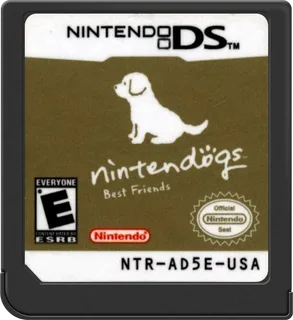
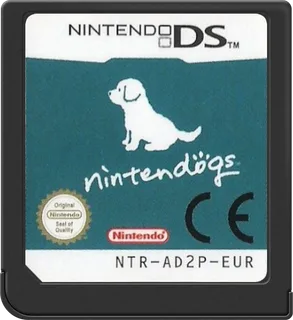
feat(system): best sellers for 10 more systems, european designs first
Lists and real cartridges or discs for Dreamcast, Saturn, Master System, Game Gear, Mega-CD,
Jaguar and PSP, and the Game Boy and Game Boy Color lists for Super Game Boy and the
two-player Game Boy systems. Every picture is now the European release where LaunchBox has
one; the Atari 2600 keeps the North American carts, since Europe's were often retitled copies
of them. FDS has no list: LaunchBox has no real disk pictures for its top games.

diff --git a/CREDITS.md b/CREDITS.md
@@ -5,43 +5,75 @@
 The pictures in `public/systems/<system>/bestsellers/` are photos and scans of the real
 cartridges and discs, from the [LaunchBox Games Database](https://gamesdb.launchbox-app.com/),
 contributed by its community. The games, their label art and their names belong to their
-publishers; they are shown here to identify each system's best sellers.
+publishers; they are shown here to identify each system's best sellers. The European release
+is used where the database has one (not for the Atari 2600, whose European releases were
+often retitled copies).
 
-| Picture                        | Game                      | Kind         | Region        | Source                                                                       |
-| ------------------------------ | ------------------------- | ------------ | ------------- | ---------------------------------------------------------------------------- |
-| `atari2600/bestsellers/1.webp` | Pac-Man                   | Cart - Front | North America | https://images.launchbox-app.com/e9454311-513f-4642-a35d-af3272b1f7ed.png    |
-| `atari2600/bestsellers/2.webp` | Pitfall!                  | Cart - Front | North America | https://images.launchbox-app.com/74fde1b3-28f1-4b3c-b26b-28bb89304945.jpg    |
-| `atari2600/bestsellers/3.webp` | Missile Command           | Cart - Front | North America | https://images.launchbox-app.com/302f3d9b-a39f-4529-a5f3-46ef04c66c09.jpg    |
-| `gamecube/bestsellers/1.webp`  | Super Smash Bros. Melee   | Disc         | North America | https://images.launchbox-app.com/273a9b53-79e4-4899-b254-03157ee749dc.png    |
-| `gamecube/bestsellers/2.webp`  | Mario Kart: Double Dash!! | Disc         | North America | https://images.launchbox-app.com/84f2b8fe-32bf-4dec-b4c2-08664f088271.png    |
-| `gamecube/bestsellers/3.webp`  | Super Mario Sunshine      | Disc         | North America | https://images.launchbox-app.com/0f71a42f-ab8a-425b-bff0-74b06e844a4f.png    |
-| `gb/bestsellers/1.webp`        | Tetris                    | Cart - Front | North America | https://images.launchbox-app.com/cfef6fae-834d-49ec-aa3e-9183db0586c5.png    |
-| `gb/bestsellers/2.webp`        | Pokémon Red               | Cart - Front | North America | https://images.launchbox-app.com/f27eb5ca-0747-40e7-a498-4a166c08557f.png    |
-| `gb/bestsellers/3.webp`        | Super Mario Land          | Cart - Front | North America | https://images.launchbox-app.com/c96dc4f1-80a7-402e-b667-503abc3d43ab.png    |
-| `gba/bestsellers/1.webp`       | Pokémon Ruby              | Cart - Front | North America | https://images.launchbox-app.com/r2_d220b83e-1533-4b8c-a1f2-7af88d67ac91.png |
-| `gba/bestsellers/2.webp`       | Pokémon FireRed           | Cart - Front | North America | https://images.launchbox-app.com/r2_31631d3e-4155-47cd-b137-398e7a8007d3.png |
-| `gba/bestsellers/3.webp`       | Pokémon Emerald           | Cart - Front | North America | https://images.launchbox-app.com/r2_ea8f352b-fa39-41b7-b27e-bbe6df1e86d1.png |
-| `gbc/bestsellers/1.webp`       | Pokémon Gold              | Cart - Front | North America | https://images.launchbox-app.com/a8c2f791-2b55-48e9-a3de-05ff0437a3e2.png    |
-| `gbc/bestsellers/2.webp`       | Pokémon Crystal           | Cart - Front | North America | https://images.launchbox-app.com/984f8deb-2948-46db-8f2f-664f6a937773.png    |
-| `gbc/bestsellers/3.webp`       | Super Mario Bros. Deluxe  | Cart - Front | Europe        | https://images.launchbox-app.com/4362b967-1cdf-4255-a577-ba11c5da7b2a.png    |
-| `megadrive/bestsellers/1.webp` | Sonic the Hedgehog        | Cart - Front | North America | https://images.launchbox-app.com/4b19e57d-bdea-4de5-b7a9-2bd0753d0b9f.png    |
-| `megadrive/bestsellers/2.webp` | Sonic the Hedgehog 2      | Cart - Front | North America | https://images.launchbox-app.com/ace55579-164e-41d8-b3a4-74f4c540d99e.png    |
-| `megadrive/bestsellers/3.webp` | Disney's Aladdin          | Cart - Front | North America | https://images.launchbox-app.com/9e420d4b-cff0-416d-b928-90146a30659a.png    |
-| `n64/bestsellers/1.webp`       | Super Mario 64            | Cart - Front | North America | https://images.launchbox-app.com/391d6327-c8c3-4d4c-850e-e11466363a8a.png    |
-| `n64/bestsellers/2.webp`       | Mario Kart 64             | Cart - Front | North America | https://images.launchbox-app.com/7c40c487-dc15-4b9f-a80f-083e3941f29b.png    |
-| `n64/bestsellers/3.webp`       | GoldenEye 007             | Cart - Front | North America | https://images.launchbox-app.com/ce3c2729-37aa-486f-9144-fc04b875fbce.png    |
-| `nds/bestsellers/1.webp`       | New Super Mario Bros.     | Cart - Front | North America | https://images.launchbox-app.com/6632ec57-30a5-40ee-b99d-2ae08aa5348d.png    |
-| `nds/bestsellers/2.webp`       | Nintendogs                | Cart - Front | North America | https://images.launchbox-app.com/r2_9578548a-07e5-4c47-814f-6bf3e6e46a0d.png |
-| `nds/bestsellers/3.webp`       | Mario Kart DS             | Cart - Front | North America | https://images.launchbox-app.com/r2_312e5d8d-b6ba-4902-9902-7cef99c112e6.png |
-| `nes/bestsellers/1.webp`       | Super Mario Bros.         | Cart - Front | North America | https://images.launchbox-app.com/5442ae86-8631-4362-b5e1-8c77ac9c2f96.png    |
-| `nes/bestsellers/2.webp`       | Duck Hunt                 | Cart - Front | North America | https://images.launchbox-app.com/e2b015a8-9673-4632-9ae9-ce43e93ad559.png    |
-| `nes/bestsellers/3.webp`       | Super Mario Bros. 3       | Cart - Front | North America | https://images.launchbox-app.com/6270c6cf-fde4-424d-9cfc-92aefd30c8c5.png    |
-| `psx/bestsellers/1.webp`       | Gran Turismo              | Disc         | North America | https://images.launchbox-app.com/f04f5e0a-e494-46e0-94f6-043143a86320.png    |
-| `psx/bestsellers/2.webp`       | Final Fantasy VII         | Disc         | North America | https://images.launchbox-app.com/b3bda860-0ef2-461e-b1ff-91869f22958e.png    |
-| `psx/bestsellers/3.webp`       | Gran Turismo 2            | Disc         | North America | https://images.launchbox-app.com/19d7b5b8-c23f-4120-af6b-ee62dd4819a8.png    |
-| `snes/bestsellers/1.webp`      | Super Mario World         | Cart - Front | North America | https://images.launchbox-app.com/a4906ecc-e7dd-4bda-ab8e-b57a461794d0.png    |
-| `snes/bestsellers/2.webp`      | Super Mario All-Stars     | Cart - Front | North America | https://images.launchbox-app.com/25faff70-cd75-4973-accb-8fd1ea764012.png    |
-| `snes/bestsellers/3.webp`      | Donkey Kong Country       | Cart - Front | North America | https://images.launchbox-app.com/5182354e-a62e-4cd0-960b-bdacd48e2947.png    |
-| `wii/bestsellers/1.webp`       | Wii Sports                | Disc         | North America | https://images.launchbox-app.com/78594fbb-d10c-4b13-8c94-3c17c7fe2a94.png    |
-| `wii/bestsellers/2.webp`       | Mario Kart Wii            | Disc         | North America | https://images.launchbox-app.com/47d85a57-297a-4852-8472-13e170dac3d9.png    |
-| `wii/bestsellers/3.webp`       | Wii Sports Resort         | Disc         | North America | https://images.launchbox-app.com/f585b75e-934e-45ea-a0fe-29ca6bbce972.png    |
+| Picture                           | Game                                   | Kind         | Region         | Source                                                                       |
+| --------------------------------- | -------------------------------------- | ------------ | -------------- | ---------------------------------------------------------------------------- |
+| `atari2600/bestsellers/1.webp`    | Pac-Man                                | Cart - Front | North America  | https://images.launchbox-app.com/e9454311-513f-4642-a35d-af3272b1f7ed.png    |
+| `atari2600/bestsellers/2.webp`    | Pitfall!                               | Cart - Front | North America  | https://images.launchbox-app.com/74fde1b3-28f1-4b3c-b26b-28bb89304945.jpg    |
+| `atari2600/bestsellers/3.webp`    | Missile Command                        | Cart - Front | North America  | https://images.launchbox-app.com/302f3d9b-a39f-4529-a5f3-46ef04c66c09.jpg    |
+| `dreamcast/bestsellers/1.webp`    | Sonic Adventure                        | Disc         | Europe         | https://images.launchbox-app.com/64598f4c-1074-42ef-b9fb-0b2d6d13004a.png    |
+| `dreamcast/bestsellers/2.webp`    | Crazy Taxi                             | Disc         | Europe         | https://images.launchbox-app.com/dc7bdfcb-754d-4ae1-8346-72a62c23bd0b.png    |
+| `dreamcast/bestsellers/3.webp`    | Shenmue                                | Disc         | Europe         | https://images.launchbox-app.com/394f8b38-004b-41a0-a842-49aa2f696a94.png    |
+| `gamecube/bestsellers/1.webp`     | Super Smash Bros. Melee                | Disc         | Europe         | https://images.launchbox-app.com/decba4b2-1fc9-4590-a134-b6040b4423f7.png    |
+| `gamecube/bestsellers/2.webp`     | Mario Kart: Double Dash!!              | Disc         | North America  | https://images.launchbox-app.com/84f2b8fe-32bf-4dec-b4c2-08664f088271.png    |
+| `gamecube/bestsellers/3.webp`     | Super Mario Sunshine                   | Disc         | Europe         | https://images.launchbox-app.com/61dfa6ab-852a-495e-be52-df6a584f7e67.png    |
+| `gamegear/bestsellers/1.webp`     | Sonic the Hedgehog                     | Cart - Front | North America  | https://images.launchbox-app.com/a8db8c77-0d00-4545-bb5b-851535030479.png    |
+| `gamegear/bestsellers/2.webp`     | Sonic the Hedgehog 2                   | Cart - Front | North America  | https://images.launchbox-app.com/445814d1-ff8d-4f65-9525-6d5547387935.png    |
+| `gamegear/bestsellers/3.webp`     | Columns                                | Cart - Front | Europe         | https://images.launchbox-app.com/026efe92-d098-4dc8-af48-5f92ff5cc256.png    |
+| `gb/bestsellers/1.webp`           | Tetris                                 | Cart - Front | Europe         | https://images.launchbox-app.com/82e5aac7-2748-4328-b428-2e0468f617a1.png    |
+| `gb/bestsellers/2.webp`           | Pokémon Red                            | Cart - Front | Europe         | https://images.launchbox-app.com/284a5b07-0bfc-4dd7-a486-7989616d1f07.png    |
+| `gb/bestsellers/3.webp`           | Super Mario Land                       | Cart - Front | Europe         | https://images.launchbox-app.com/2ae4e24a-6f11-4679-b2ee-37d01fefd517.jpg    |
+| `gb2players/bestsellers/1.webp`   | Tetris                                 | Cart - Front | Europe         | https://images.launchbox-app.com/82e5aac7-2748-4328-b428-2e0468f617a1.png    |
+| `gb2players/bestsellers/2.webp`   | Pokémon Red                            | Cart - Front | Europe         | https://images.launchbox-app.com/284a5b07-0bfc-4dd7-a486-7989616d1f07.png    |
+| `gb2players/bestsellers/3.webp`   | Super Mario Land                       | Cart - Front | Europe         | https://images.launchbox-app.com/2ae4e24a-6f11-4679-b2ee-37d01fefd517.jpg    |
+| `gba/bestsellers/1.webp`          | Pokémon Ruby                           | Cart - Front | North America  | https://images.launchbox-app.com/r2_d220b83e-1533-4b8c-a1f2-7af88d67ac91.png |
+| `gba/bestsellers/2.webp`          | Pokémon FireRed                        | Cart - Front | Spain          | https://images.launchbox-app.com/r2_bf1d6fa7-a006-4a65-8bac-d14a72f9adc6.png |
+| `gba/bestsellers/3.webp`          | Pokémon Emerald                        | Cart - Front | Spain          | https://images.launchbox-app.com/r2_5cf40804-350c-4e84-bc85-999abf187fb6.png |
+| `gbc/bestsellers/1.webp`          | Pokémon Gold                           | Cart - Front | Europe         | https://images.launchbox-app.com/03470205-0fd7-4b25-9b3e-09c70270839e.jpg    |
+| `gbc/bestsellers/2.webp`          | Pokémon Crystal                        | Cart - Front | Germany        | https://images.launchbox-app.com/06d51c8b-914f-4a1f-8aa3-3dd97ea9b833.png    |
+| `gbc/bestsellers/3.webp`          | Super Mario Bros. Deluxe               | Cart - Front | Europe         | https://images.launchbox-app.com/4362b967-1cdf-4255-a577-ba11c5da7b2a.png    |
+| `gbc2players/bestsellers/1.webp`  | Pokémon Gold                           | Cart - Front | Europe         | https://images.launchbox-app.com/03470205-0fd7-4b25-9b3e-09c70270839e.jpg    |
+| `gbc2players/bestsellers/2.webp`  | Pokémon Crystal                        | Cart - Front | Germany        | https://images.launchbox-app.com/06d51c8b-914f-4a1f-8aa3-3dd97ea9b833.png    |
+| `gbc2players/bestsellers/3.webp`  | Super Mario Bros. Deluxe               | Cart - Front | Europe         | https://images.launchbox-app.com/4362b967-1cdf-4255-a577-ba11c5da7b2a.png    |
+| `jaguar/bestsellers/1.webp`       | Alien vs Predator                      | Cart - Front | World          | https://images.launchbox-app.com/d07b2186-7473-4ba7-b2dd-293ba98de522.png    |
+| `jaguar/bestsellers/2.webp`       | Tempest 2000                           | Cart - Front | North America  | https://images.launchbox-app.com/1a055b97-6538-4310-829d-127829b11165.png    |
+| `jaguar/bestsellers/3.webp`       | Cybermorph                             | Cart - Front | World          | https://images.launchbox-app.com/f1cf23ec-8b14-4d55-90e6-97af517cbe83.png    |
+| `mastersystem/bestsellers/1.webp` | Alex Kidd in Miracle World             | Cart - Front | North America  | https://images.launchbox-app.com/e2ce400a-e2ed-4abf-801f-1426d87481f1.png    |
+| `mastersystem/bestsellers/2.webp` | Sonic the Hedgehog                     | Cart - Front | Europe         | https://images.launchbox-app.com/a9d8c552-bff4-4da6-a98b-16bad0dae34d.png    |
+| `mastersystem/bestsellers/3.webp` | Sonic the Hedgehog 2                   | Cart - Front | Europe         | https://images.launchbox-app.com/dc760138-67c7-442f-8238-e38a37e26712.png    |
+| `megacd/bestsellers/1.webp`       | Sonic CD                               | Disc         | Europe         | https://images.launchbox-app.com/aa41b889-9ae7-4d9e-8949-60485d254858.png    |
+| `megacd/bestsellers/2.webp`       | Sewer Shark                            | Disc         | Europe         | https://images.launchbox-app.com/r2_6ea151fb-679d-4039-b98f-2e9119c39118.png |
+| `megacd/bestsellers/3.webp`       | Night Trap                             | Disc         | Europe         | https://images.launchbox-app.com/b7d8e219-24d0-487e-8267-0b37516f8649.png    |
+| `megadrive/bestsellers/1.webp`    | Sonic the Hedgehog                     | Cart - Front | Europe         | https://images.launchbox-app.com/ec79743c-b892-4aa7-8cf4-d71974a04de5.png    |
+| `megadrive/bestsellers/2.webp`    | Sonic the Hedgehog 2                   | Cart - Front | Europe         | https://images.launchbox-app.com/e60daf5c-74e5-4dca-9950-8af1917ee07a.png    |
+| `megadrive/bestsellers/3.webp`    | Disney's Aladdin                       | Cart - Front | Europe         | https://images.launchbox-app.com/e443d572-9a0b-4f6c-a1c1-644417d8160b.png    |
+| `n64/bestsellers/1.webp`          | Super Mario 64                         | Cart - Front | North America  | https://images.launchbox-app.com/391d6327-c8c3-4d4c-850e-e11466363a8a.png    |
+| `n64/bestsellers/2.webp`          | Mario Kart 64                          | Cart - Front | North America  | https://images.launchbox-app.com/7c40c487-dc15-4b9f-a80f-083e3941f29b.png    |
+| `n64/bestsellers/3.webp`          | GoldenEye 007                          | Cart - Front | Europe         | https://images.launchbox-app.com/941f10de-bafa-4ba3-8c7c-204e81331176.png    |
+| `nds/bestsellers/1.webp`          | New Super Mario Bros.                  | Cart - Front | Europe         | https://images.launchbox-app.com/r2_c25162c3-054f-43a3-a8ed-c3fb6fee10e6.png |
+| `nds/bestsellers/2.webp`          | Nintendogs                             | Cart - Front | Europe         | https://images.launchbox-app.com/r2_e1b273ce-9bfa-4278-8d8e-be4d993f8c15.png |
+| `nds/bestsellers/3.webp`          | Mario Kart DS                          | Cart - Front | Europe         | https://images.launchbox-app.com/r2_71685581-1149-43bc-a058-701131ce43fa.png |
+| `nes/bestsellers/1.webp`          | Super Mario Bros.                      | Cart - Front | Europe         | https://images.launchbox-app.com/ab293e76-43e1-4bfe-b1c5-0ef0f2b980f4.png    |
+| `nes/bestsellers/2.webp`          | Duck Hunt                              | Cart - Front | Europe         | https://images.launchbox-app.com/83209d5b-af15-4d92-9088-218cf73787b4.png    |
+| `nes/bestsellers/3.webp`          | Super Mario Bros. 3                    | Cart - Front | Europe         | https://images.launchbox-app.com/751c7950-f888-41ff-bb17-42fb00ce7854.png    |
+| `psp/bestsellers/1.webp`          | Grand Theft Auto: Liberty City Stories | Disc         | World          | https://images.launchbox-app.com/ea3cbbea-6f4e-4eef-ab5d-c5fc66fd5ae2.jpg    |
+| `psp/bestsellers/2.webp`          | Monster Hunter Freedom Unite           | Disc         | World          | https://images.launchbox-app.com/b08ea461-4eaa-4c08-b2ae-dd76c946918d.jpg    |
+| `psp/bestsellers/3.webp`          | Monster Hunter Portable 3rd            | Disc         | Japan          | https://images.launchbox-app.com/r2_dd4af7bd-70be-4809-937c-2c7ef51ae47e.png |
+| `psx/bestsellers/1.webp`          | Gran Turismo                           | Disc         | Europe         | https://images.launchbox-app.com/ea4dca94-d8db-4a26-beee-2d286eb46053.png    |
+| `psx/bestsellers/2.webp`          | Final Fantasy VII                      | Disc         | Europe         | https://images.launchbox-app.com/1d32493a-61ad-41fa-a492-6311f84f114b.png    |
+| `psx/bestsellers/3.webp`          | Gran Turismo 2                         | Disc         | Europe         | https://images.launchbox-app.com/d67757e4-1164-41de-82ed-f7075bf9feb8.png    |
+| `saturn/bestsellers/1.webp`       | Virtua Fighter 2                       | Disc         | Europe         | https://images.launchbox-app.com/r2_9c4bd1d4-82b7-4790-98da-90b45964de02.png |
+| `saturn/bestsellers/2.webp`       | Virtua Fighter                         | Disc         | Europe         | https://images.launchbox-app.com/r2_15a9d19d-d34b-464f-be40-ec814edc3c85.png |
+| `saturn/bestsellers/3.webp`       | Sega Rally Championship                | Disc         | Europe         | https://images.launchbox-app.com/r2_57f4faae-9823-4478-8d77-fd2cc661a2cf.png |
+| `sgb/bestsellers/1.webp`          | Tetris                                 | Cart - Front | Europe         | https://images.launchbox-app.com/82e5aac7-2748-4328-b428-2e0468f617a1.png    |
+| `sgb/bestsellers/2.webp`          | Pokémon Red                            | Cart - Front | Europe         | https://images.launchbox-app.com/284a5b07-0bfc-4dd7-a486-7989616d1f07.png    |
+| `sgb/bestsellers/3.webp`          | Super Mario Land                       | Cart - Front | Europe         | https://images.launchbox-app.com/2ae4e24a-6f11-4679-b2ee-37d01fefd517.jpg    |
+| `snes/bestsellers/1.webp`         | Super Mario World                      | Cart - Front | United Kingdom | https://images.launchbox-app.com/233c29de-f34f-4844-b4a8-2b0ee6e3ba58.png    |
+| `snes/bestsellers/2.webp`         | Super Mario All-Stars                  | Cart - Front | Germany        | https://images.launchbox-app.com/c8de34c3-301b-4515-a79b-e188316e8eba.png    |
+| `snes/bestsellers/3.webp`         | Donkey Kong Country                    | Cart - Front | Germany        | https://images.launchbox-app.com/522feaa0-5e9b-477a-8994-abd0d1a7f2b5.jpg    |
+| `wii/bestsellers/1.webp`          | Wii Sports                             | Disc         | Europe         | https://images.launchbox-app.com/ec4221c8-df43-435f-ab42-744b42ffd7f5.png    |
+| `wii/bestsellers/2.webp`          | Mario Kart Wii                         | Disc         | United Kingdom | https://images.launchbox-app.com/abfc0734-249c-4423-8a56-d7475647212b.png    |
+| `wii/bestsellers/3.webp`          | Wii Sports Resort                      | Disc         | Europe         | https://images.launchbox-app.com/d64fb466-66c4-40ef-aa40-1b41cc0a31d4.png    |
